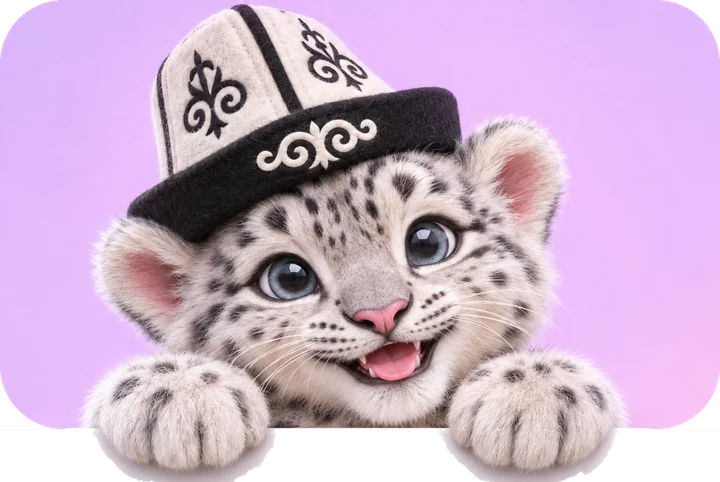
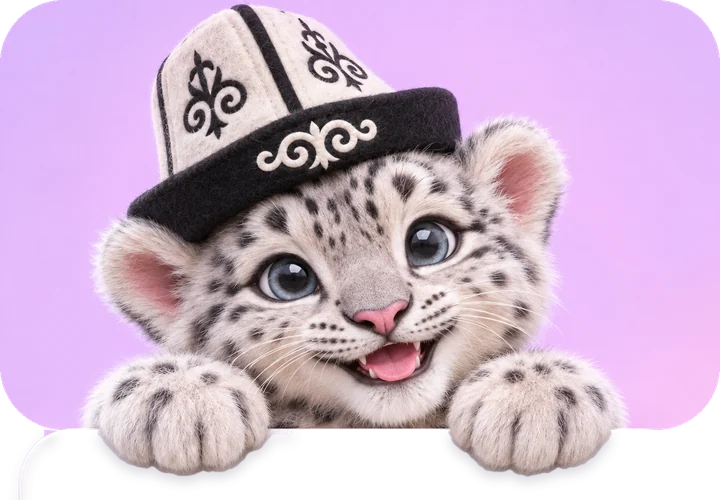
Барсёнок: аккуратные лапы и мягкая тень
Claude-Session: https://claude.ai/code/session_01Jx6LeccEXJdHGmuEJJs3tw

Changed region(s): [[0.0, 0.0311, 1.0, 1.0]]

diff --git a/index.html b/index.html
@@ -20,12 +20,12 @@
   <div class="top"><span class="brand"><img src="icon-192.png" alt=""><span>Той Менеджер</span></span></div>
 
   <section class="peek">
-    <img src="cub.webp" width="720" height="482" alt="Барсёнок в калпаке">
+    <img src="cub.webp" width="720" height="500" alt="Барсёнок в калпаке">
     <div class="card stack">
       <h1>Весь той —<br>в одном приложении</h1>
       <p class="muted">Гости, приглашения, конверты и бюджет. Вместе с семьёй, без тетрадок и таблиц.</p>
     </div>
-    <img class="paws" src="cub.webp" width="720" height="482" alt="">
+    <img class="paws" src="cub.webp" width="720" height="500" alt="">
   </section>
 
   <section class="card feat">

diff --git a/i/index.html b/i/index.html
@@ -41,13 +41,13 @@
   <!-- основное -->
   <section id="main" class="stack" hidden>
     <div class="peek">
-      <img src="../cub.webp" width="720" height="482" alt="Барсёнок в калпаке">
+      <img src="../cub.webp" width="720" height="500" alt="Барсёнок в калпаке">
       <div class="card">
         <div class="label" data-t="invite">Приглашение</div>
         <h1 id="title" style="margin-top:4px"></h1>
         <p class="greet" id="greet" style="margin-top:10px;font-size:17px"></p>
       </div>
-      <img class="paws" src="../cub.webp" width="720" height="482" alt="">
+      <img class="paws" src="../cub.webp" width="720" height="500" alt="">
     </div>
 
     <div class="card">

diff --git a/style.css b/style.css
@@ -94,4 +94,4 @@ footer a { color: var(--muted); }
 .peek { position: relative; }
 .peek > img { display: block; width: 100%; height: auto; }
 .peek > img.paws { position: absolute; top: 0; left: 0; pointer-events: none; }
-.peek > .card { margin: -7.33% 3% 0; padding-top: calc(7.33% + 14px); border-radius: 26px; }
+.peek > .card { margin: -9.74% 3% 0; padding-top: calc(9.74% + 14px); border-radius: 26px; }
